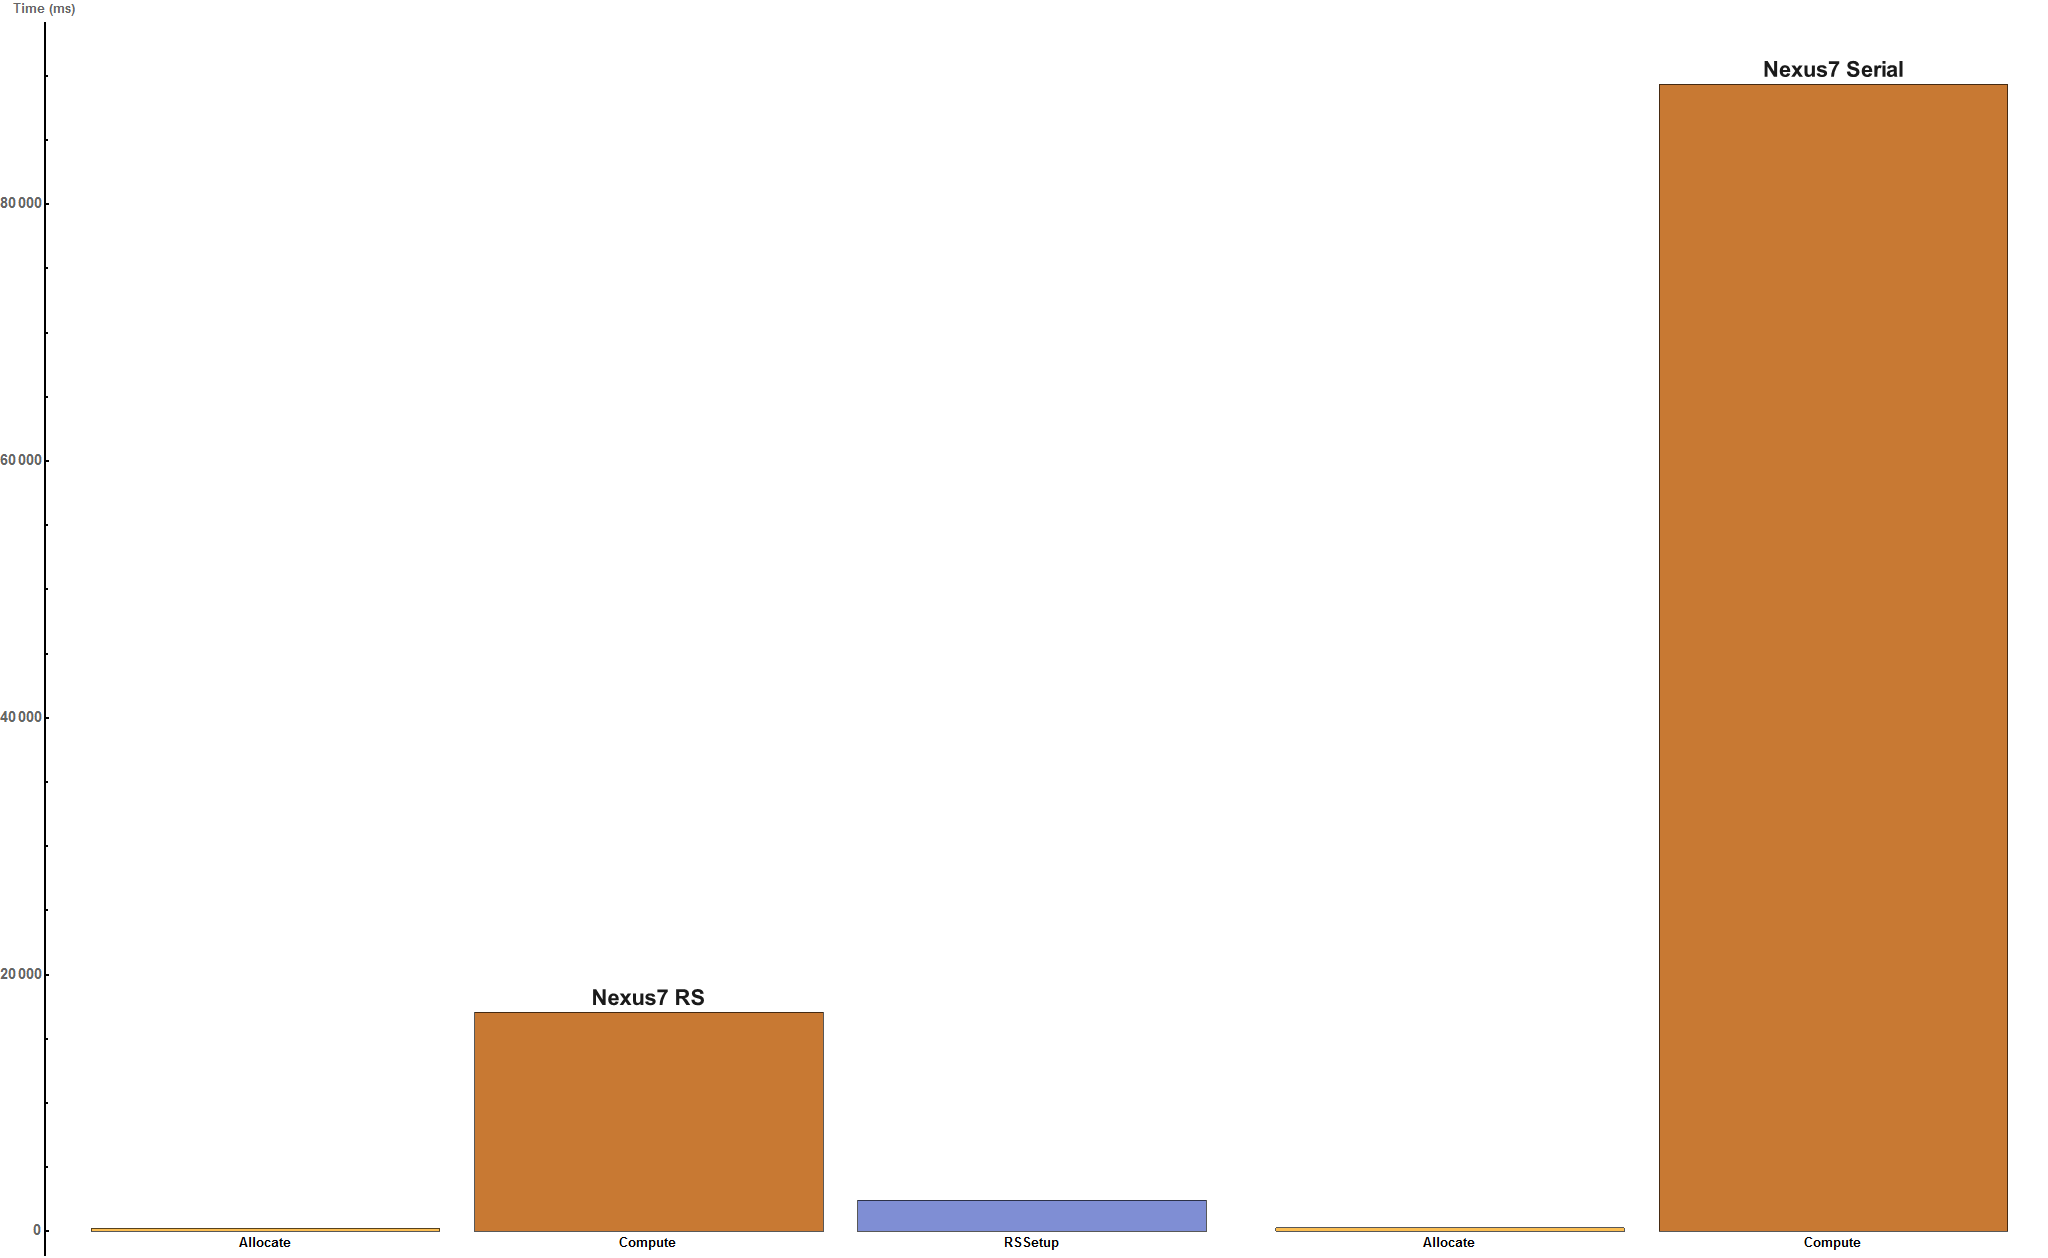
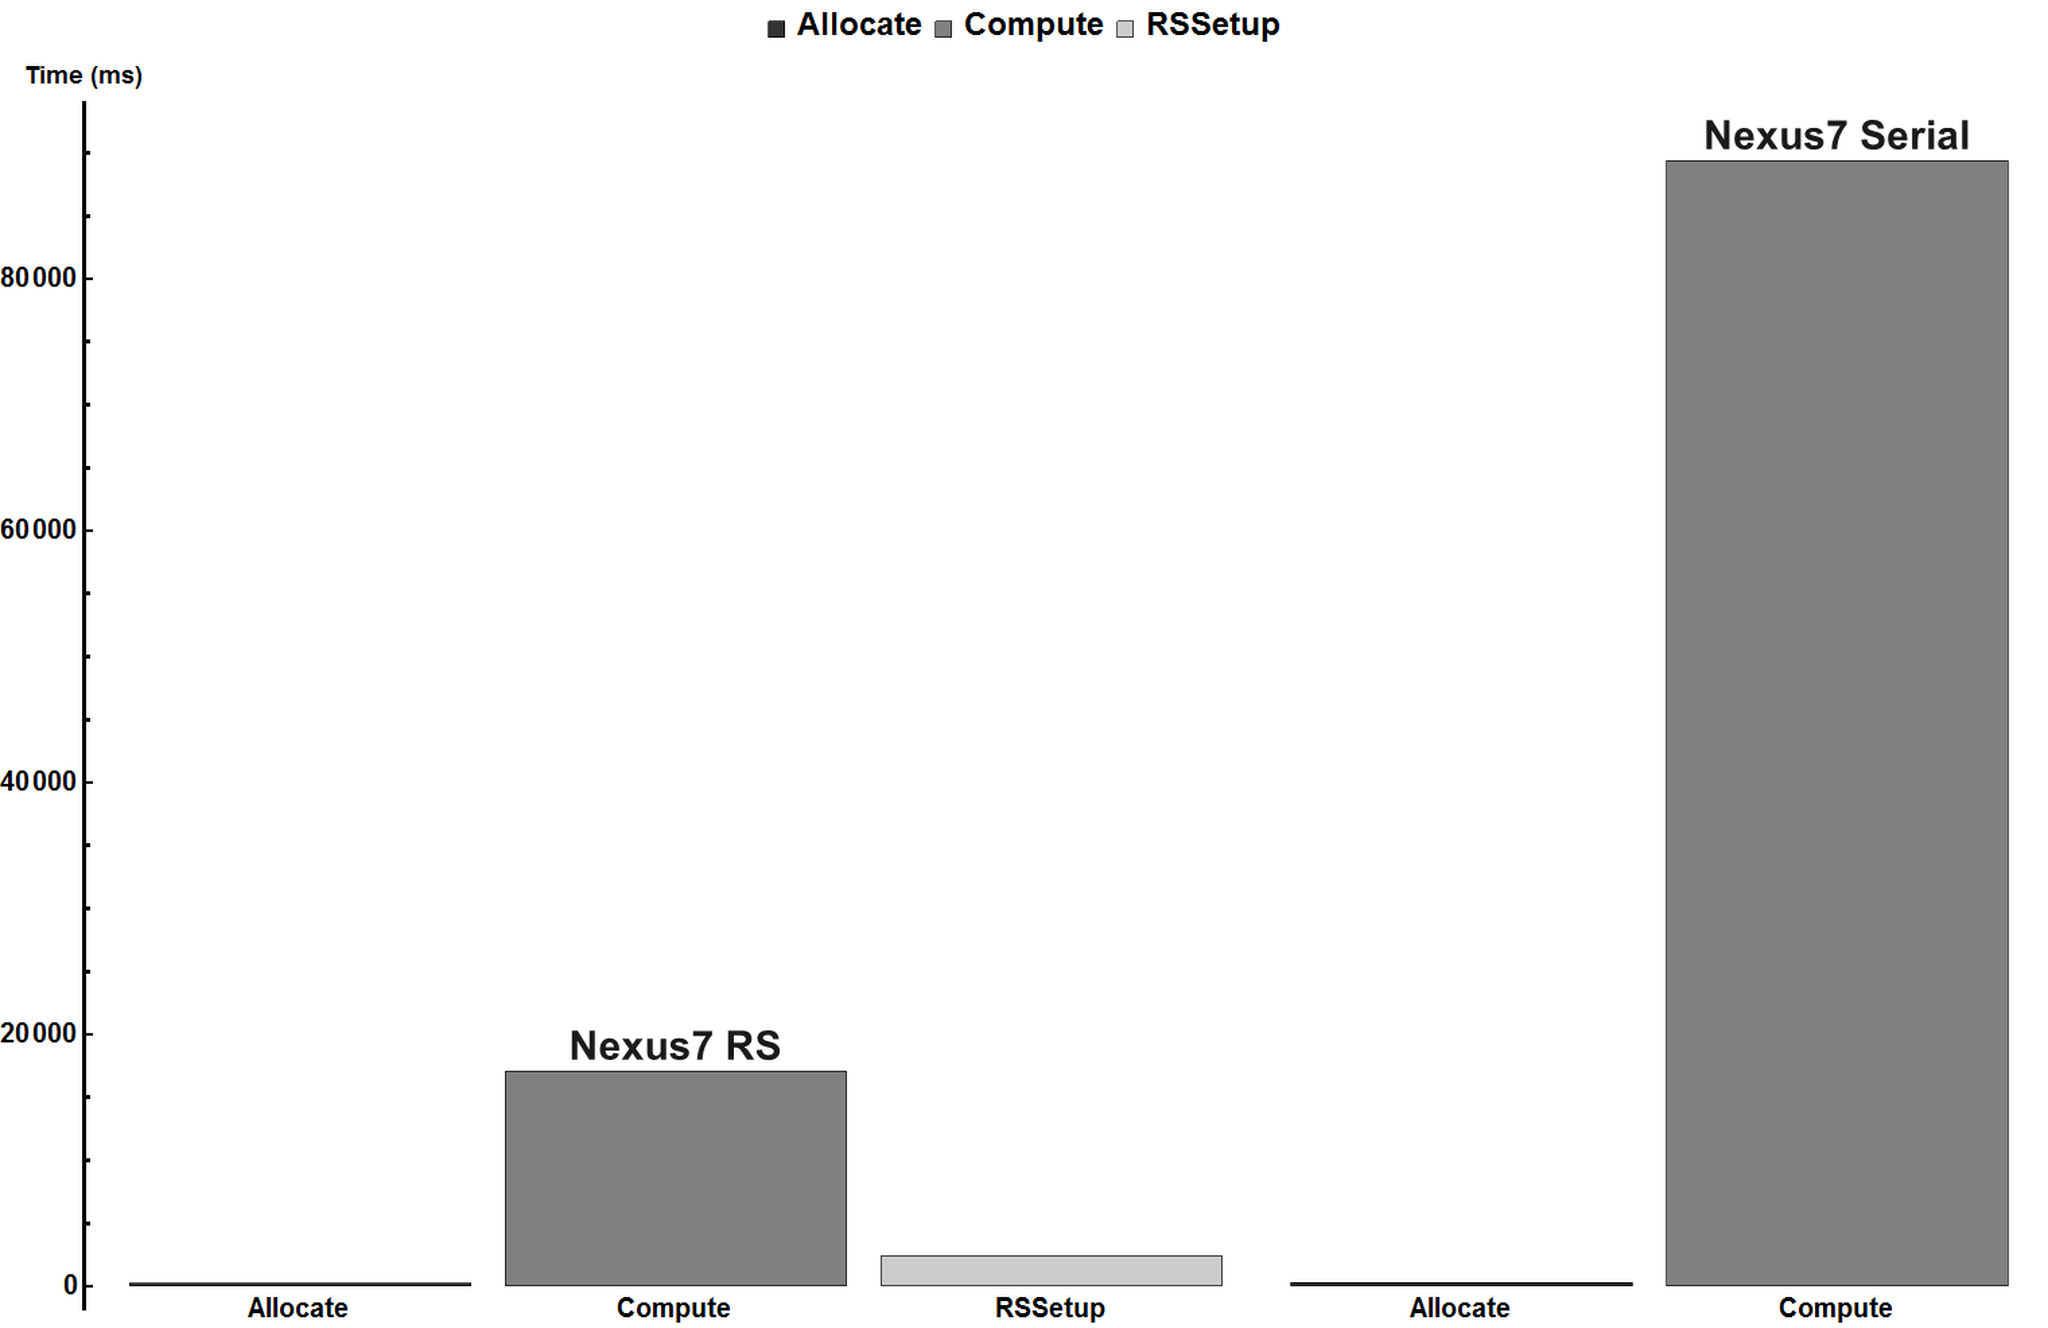
finish analysis section

diff --git a/progress/analysis.tex b/progress/analysis.tex
@@ -28,9 +28,22 @@ While we do have implementations for 3 out of the 4 benchmarks we promised in th
 The data has not been fully analyzed, but we can give some perliminary insights into the expected
   results.
 
+The IO times are around 1000 times more than the compute times on Android devices.
+Therefore, in the plots we chose not to include the IO times, since that heavily skews
+  the plots, and using a log scale it makes the other data almost the same.
+
+The plots record the time it took to allocate the data (which should be similar across implementations),
+  the compute time, and for RenderScript the setup time --- this is the time it takes to load the RenderScript code as you prepare for computation (it may include jitting the code for example).
+
+Vector addition, shown in figure~\ref{vecadd}, is a simple kernel and we see that the serial version outperforms both RenderScript
+  and the threaded Java version.
+For the RenderScript, we suspect this is overhead from translating between the Java data arrays and
+  the RenderScript arrays.
+For the threaded version, we use a thread for each element calculation (in the same style as you'd do in CUDA), and therefore you encure huge runtime penalty because of launching many threads.
+Performing thread coarsing would decrease this implact, but that has not been done. 
 
 \begin{figure}[t!]
-\includegraphics[scale=0.125]{VectorAdd.png}
+\includegraphics[scale=0.125]{VectorAdd_nolog.png}
 \caption{VectorAdd Benchmark.}
 \label{fig:vecadd}
 \centering
@@ -38,31 +51,40 @@ The data has not been fully analyzed, but we can give some perliminary insights 
 
 
 
+Matrix multiplication, shown in figure~\ref{vecadd}, performs matrix multiplication.
+The data is stored in column major order and we perform the computation in column major order.
+One possible optimization is to transpose the data beforehand to get better locality when performing computation.
+Regardless, we see a 4x performance improvement in SGEMM.
+We have not implemented a threaded Java version of the SGEMM benchmark, which is why it's missing from
+  the plot.
 \begin{figure}[t!]
-\includegraphics[scale=0.125]{Sgemm.png}
+\includegraphics[scale=0.125]{Sgemm_nolog.png}
 \caption{Matrix Matrix Multiplication Benchmark.}
 \label{fig:sgemm}
 \centering
 \end{figure}
 
 
+Note, the semantics of Java's single precision floating point operations are slightly different from those of C, so do not expect 
+  to always use single precision for all the benchmarks (this was seen in the initial porting of TPACF).
 
-In figure~\ref{fig:stencil}, we should the results from running the stencil code across the different
-  implementations.
 
-The serial versions have an added {\tt RSSetup} time, this is either due to bad parsing of the 
+
+The final benchmark implemented is stencil shown in figure~\ref{fig:stencil}.
+Again, we did not implement the threaded Java version of this code, but we can see that the 
+  RenderScript version outperforms the serial code.
+RenderScript has not scratch pad memory constructs, so we were not able to use fine grained memory management to achieve high throughput.
+We further suspect that this code is not fully optimized to use all the RenderScript constructs available.
+Finally, the serial versions have an added (negligible) {\tt RSSetup} time, this is either due to bad parsing of the 
   output data or an incorrect labeling of a timer in the source code.
 
 \begin{figure}[t!]
-\includegraphics[scale=0.125]{Stencil.png}
+\includegraphics[scale=0.125]{Stencil_nolog.png}
 \caption{Stencil Benchmark.}
 \label{fig:stencil}
 \centering
 \end{figure}
 
 
-While these graphs have the infromation, they are not presented in the clearest way.
-Future work would remove the IO times from the plots, this would avoid us having to use Log scalling
-  and would make some of the differences more visable.
   
 

diff --git a/progress/complications.tex b/progress/complications.tex
@@ -3,4 +3,8 @@
 Our main complication came from the fact that we have never developed Android applications
   before.
 We approached it as if we were developing Java applications, but quickly realized that 
-  there are some contraints placed by the Android environment.
+  there are some constraints placed by the Android environment.
+
+Furthermore, because the Android software and hardware is fragmented, references we found
+  on how to solve certain problems either did not pertain to the hardware we were using
+  or the Android version we are targeting.

diff --git a/progress/paper.tex b/progress/paper.tex
@@ -218,7 +218,7 @@
 %keyword1, keyword2
 
 \input{intro}
-\input{overview}
+%\input{overview}
 \input{method}
 \input{analysis}
 \input{complications}
